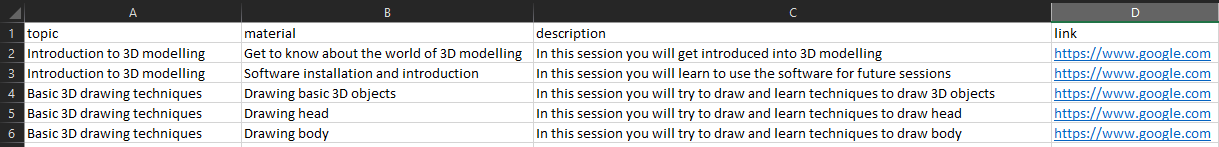
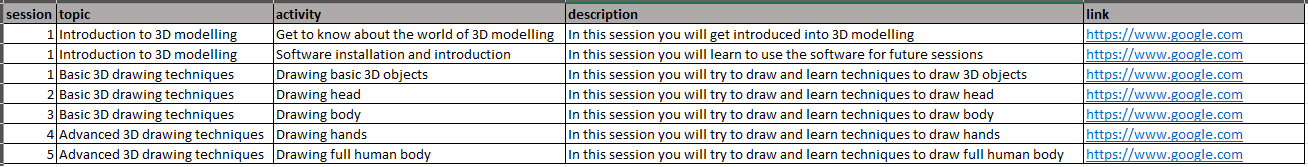
changes in import excel and other improvements

diff --git a/resources/views/roles/admin/student/index.blade.php b/resources/views/roles/admin/student/index.blade.php
@@ -8,15 +8,25 @@
 	<x-section-container>
 		<x-page-title class="text-center">{{ __("List of Active Students") }}</x-page-title>
 
-		<div class="flex items-center mt-6">
-			<div class="w-1/4">
-				<x-anchor-button  href="{{ route('admin.student.import-excel') }}"><i class="bi bi-file-earmark-arrow-up"></i> Import From Excel</x-anchor-button>
+		<!-- Filter -->
+		<form action="{{ route("admin.student.index") }}" id="filter-form">
+		</form>
+
+		<div class="flex items-center justify-between gap-5 mt-5 w-full">
+			<x-anchor-button class="w-56" href="{{ route('admin.student.import-excel') }}"><i class="bi bi-file-earmark-arrow-up"></i> Import From Excel</x-anchor-button>
+
+			<div class="flex w-1/2 items-stretch">
+				<x-input type="text" class="border-blue-900 border-2 rounded-l-lg rounded-r-none w-full" placeholder="Search..." :value="request('search')" id="search-name"/>
+				<button class="rounded-l-none rounded-r-lg border-slate-400 border-t-2 border-r-2 border-b-2 py-2 px-4 bg-white text-slate-400 hover:bg-slate-400 hover:text-white" style="border-width: 3px 3px 3px 0;" id="search-btn"><i class="bi bi-search"></i></button>
 			</div>
 
-			<form class="flex w-1/2 justify-center" action="{{ route("admin.student.index") }}">
-				<x-input type="text" class="border-blue-900 border-2 rounded-l-lg rounded-r-none w-full" name="search" placeholder="Search..." :value="request('search')"/>
-				<button class="rounded-l-none rounded-r-lg border-slate-400 border-t-2 border-r-2 border-b-2 py-2 px-4 bg-white text-slate-400 hover:bg-slate-400 hover:text-white" style="border-width: 3px 3px 3px 0;"><i class="bi bi-search"></i></button>
-			</form>
+			<x-select id="filter-course" class="w-56" value="{{ request('course_name') }}">
+				<option value="">All</option>
+				@forelse(App\Models\Course::where("status", "active")->get() as $c)
+					<option value="{{ $c->id }}" @if(request('course') == $c->id) selected @endif>{{ $c->course_name }}</option>
+				@empty
+				@endforelse
+			</x-select>
 		</div>
 
 		<div class="w-full bg-slate-400 mt-6" style="height: 2px;"></div>
@@ -25,7 +35,7 @@
 			<x-badge-success badge_text="{{ session('successImportExcelStudent') }}" class="mb-4"></x-badge-success>
 		@endif
 
-		<div class="w-full overflow-x-auto">
+		<div class="w-full overflow-x-auto" style="max-height: 500px;">
 			<table class="w-full">
 				<thead>
 					<th class="text-start py-3 px-4 border-b-2 border-slate-400">Student Name</th>
@@ -91,4 +101,18 @@
 			</table>
 		</div>
 	</x-section-container>
+
+	<script>
+		$(document).ready(() => {
+			$('#search-btn').click(() => {
+				const form = $('#filter-form');
+				form.html('');
+
+				form.append($("<input>").attr({"type": "hidden", "name": "course", "value": $('#filter-course').val()}));
+				form.append($("<input>").attr({"type": "hidden", "name": "search", "value": $('#search-name').val()}));
+
+				form.submit();
+			});
+		});
+	</script>
 @endsection

diff --git a/routes/auth.php b/routes/auth.php
@@ -1,15 +1,16 @@
 <?php
 
-use App\Http\Controllers\Auth\AuthenticatedSessionController;
-use App\Http\Controllers\Auth\ConfirmablePasswordController;
-use App\Http\Controllers\Auth\EmailVerificationNotificationController;
-use App\Http\Controllers\Auth\EmailVerificationPromptController;
-use App\Http\Controllers\Auth\NewPasswordController;
-use App\Http\Controllers\Auth\PasswordResetLinkController;
-use App\Http\Controllers\Auth\RegisteredUserController;
-use App\Http\Controllers\Auth\VerifyEmailController;
+use Illuminate\Support\Facades\Auth;
 use Illuminate\Support\Facades\Route;
-
+use App\Http\Controllers\Auth\NewPasswordController;
+use App\Http\Controllers\Auth\VerifyEmailController;
+use App\Http\Controllers\Auth\RegisteredUserController;
+use App\Http\Controllers\Auth\PasswordResetLinkController;
+use App\Http\Controllers\Auth\ConfirmablePasswordController;
+use App\Http\Controllers\Auth\AuthenticatedSessionController;
+use App\Http\Controllers\Auth\EmailVerificationPromptController;
+use App\Http\Controllers\Auth\EmailVerificationNotificationController;
+use App\Models\User;
 
 // Register
 Route::get('/register', [RegisteredUserController::class, 'create'])->middleware('guest')->name('register'); // TODO: Remove after sysadmin registered
@@ -22,6 +23,18 @@ Route::post('/login', [AuthenticatedSessionController::class, 'store'])->middlew
 Route::get('/login', function() {
 	return redirect(route('home'));
 })->middleware('guest')->name('login');
+
+// Role swap
+Route::post('/change-role', function(){
+	if(Auth::user()->role_id == 2){
+		User::find(Auth::user()->id)->update(['role_id' => 1]);
+	}
+	else if(Auth::user()->role_id == 1) {
+		User::find(Auth::user()->id)->update(['role_id' => 2]);
+	}
+
+	return redirect(route('dashboard'));
+})->middleware('auth')->name('change-role');
 
 
 // Forgot Password

diff --git a/resources/views/components/sidebar/admin.blade.php b/resources/views/components/sidebar/admin.blade.php
@@ -16,6 +16,12 @@
 				<div class="bg-slate-400 mx-5 mt-3 mb-1" style="height: 1.5px;"></div>
 				<a href="{{ route("profile.show") }}"><div class="w-full px-5 py-1 hover:bg-slate-300 text-black font-semibold flex items-center gap-1"><img src="{{ asset('img/sidebar-edit-profile.svg') }}" class="h-4 w-4" alt="sidebar-icon"> Edit Profile</div></a>
 				<a href="{{ route("profile.show") }}"><div class="w-full px-5 py-1 hover:bg-slate-300 text-black font-semibold flex items-center gap-1"><img src="{{ asset('img/sidebar-change-password.svg') }}" class="h-4 w-4" alt="sidebar-icon"> Change Password</div></a>
+				@can('can_swap_role')
+					<form action="{{ route('change-role') }}" method="post">
+						@csrf
+						<button type="submit" onclick="return confirm('Are you sure want to swap your role into teacher?');" class="w-full"><div class="w-full px-5 py-1 hover:bg-slate-300 text-black font-semibold flex items-center gap-1"><i class="bi bi-arrow-left-right text-slate-400"></i> Change Role</div></button>
+					</form>
+				@endcan
 			</div>
 		</div>
 

diff --git a/resources/views/components/sidebar/teacher.blade.php b/resources/views/components/sidebar/teacher.blade.php
@@ -52,6 +52,12 @@
 				<div class="bg-slate-400 mx-5 mt-3 mb-1" style="height: 1.5px;"></div>
 				<a href="{{ route("profile.show") }}"><div class="w-full px-5 py-1 hover:bg-slate-300 text-black font-semibold flex items-center gap-1"><img src="{{ asset('img/sidebar-edit-profile.svg') }}" class="h-4 w-4" alt="sidebar-icon"> Edit Profile</div></a>
 				<a href="{{ route("profile.show") }}"><div class="w-full px-5 py-1 hover:bg-slate-300 text-black font-semibold flex items-center gap-1"><img src="{{ asset('img/sidebar-change-password.svg') }}" class="h-4 w-4" alt="sidebar-icon"> Change Password</div></a>
+				@can('can_swap_role')
+					<form action="{{ route('change-role') }}" method="post">
+						@csrf
+						<button type="submit" onclick="return confirm('Are you sure want to swap your role into admin?');" class="w-full"><div class="w-full px-5 py-1 hover:bg-slate-300 text-black font-semibold flex items-center gap-1"><i class="bi bi-arrow-left-right text-slate-400"></i> Change Role</div></button>
+					</form>
+				@endcan
 			</div>
 		</div>
 

diff --git a/database/migrations/2024_05_09_000001_create_users_table.php b/database/migrations/2024_05_09_000001_create_users_table.php
@@ -8,17 +8,23 @@ return new class extends Migration {
 	public function up() {
 		Schema::create('users', function (Blueprint $table) {
 			$table->id();
+
+			$table->unsignedBigInteger('role_id');
+			$table->foreign('role_id')->references('id')->on('roles')->onDelete("cascade");
+
 			$table->string('full_name');
 			$table->string('email')->unique();
-			$table->timestamp('email_verified_at')->nullable();
 			$table->string('password');
-			$table->unsignedBigInteger('role_id');
+			$table->timestamp('email_verified_at')->nullable();
+
 			$table->string("status");
 			$table->timestamp("last_announcement")->nullable();
 			$table->timestamp("last_login")->nullable();
 			$table->string("disable_reason")->nullable();
+			$table->unsignedInteger("can_swap_role")->default(0);
+
 			$table->rememberToken();
-			$table->foreign('role_id')->references('id')->on('roles')->onDelete("cascade");
+
 			$table->timestamps();
 		});
 	}

diff --git a/app/Providers/AppServiceProvider.php b/app/Providers/AppServiceProvider.php
@@ -2,8 +2,9 @@
 
 namespace App\Providers;
 
-use Illuminate\Support\ServiceProvider;
 use Illuminate\Pagination\Paginator;
+use Illuminate\Support\Facades\Gate;
+use Illuminate\Support\ServiceProvider;
 
 class AppServiceProvider extends ServiceProvider
 {
@@ -24,6 +25,10 @@ class AppServiceProvider extends ServiceProvider
      */
     public function boot()
     {
+		Gate::define('can_swap_role', function ($user) {
+			return $user && $user->can_swap_role == 1;
+		});
+
         Paginator::defaultView('vendor.pagination.simple-tailwind');
     }
 }

diff --git a/resources/views/roles/admin/student/show.blade.php b/resources/views/roles/admin/student/show.blade.php
@@ -158,7 +158,7 @@
 			<div class="w-full flex gap-x-4">
 				<div class="flex flex-col w-1/2">
 					<p>Student Name</p>
-					<div class="w-full px-4 py-2 mt-1 rounded-2xl bg-white border-slate-400 font-bold" style="border-width: 3px">{{ ($student->details->gender == 1)? "Mr." : "Ms." }} {{ $student->full_name }}</div>
+					<div class="w-full px-4 py-2 mt-1 rounded-2xl bg-white border-slate-400 font-bold" style="border-width: 3px">{{ $student->full_name }}</div>
 				</div>
 
 				<div class="flex flex-col w-1/2">

diff --git a/app/Http/Controllers/StudentController.php b/app/Http/Controllers/StudentController.php
@@ -48,7 +48,7 @@ class StudentController extends Controller {
 	// ===== ADMIN ===== //
 	// Showing list of all active students in Sangnila LMS
 	public function admin_index() {
-		$students = User::where("role_id", 3)->filter(request(["search"]))->get();
+		$students = User::where("role_id", 3)->filter(request(["search", "course"]))->get();
 
 		$max_attendances = [];
 		$current_attendances = [];

diff --git a/app/Http/Controllers/CourseController.php b/app/Http/Controllers/CourseController.php
@@ -23,7 +23,7 @@ class CourseController extends Controller {
 	// Showing list of all available courses in Sangnila LMS
 	public function admin_index() {
 		return view('roles.admin.course.index', [
-			'courses' => Course::filter(request(["search"]))->orderBy('course_name')->get()
+			'courses' => Course::filter(request(["search"]))->orderBy('course_name')->paginate(15)
 		]);
 	}
 

diff --git a/app/Http/Kernel.php b/app/Http/Kernel.php
@@ -66,6 +66,6 @@ class Kernel extends HttpKernel
         'verified' => \Illuminate\Auth\Middleware\EnsureEmailIsVerified::class,
 		'role' => \App\Http\Middleware\RoleMiddleware::class,
 		"acc_not_disabled" => \App\Http\Middleware\Disabled::class,
-		"maintenance" => \App\Http\Middleware\Maintenance::class
+		"maintenance" => \App\Http\Middleware\Maintenance::class,
     ];
 }

diff --git a/app/Imports/CurriculumsImport.php b/app/Imports/CurriculumsImport.php
@@ -35,9 +35,10 @@ class CurriculumsImport implements ToModel, WithHeadingRow
 
 			CurriculumActivity::create([
 				"curriculum_topic_id" => $ctopic->id,
+				"session" => $row["session"],
 				"title" => $row["activity"],
 				"desc" => $row["description"],
-				"link" => $row["link"]
+				"link" => $row["link"],
 			]);
 
             // Commit the transaction

diff --git a/resources/views/roles/teacher/attendance/show.blade.php b/resources/views/roles/teacher/attendance/show.blade.php
@@ -124,7 +124,7 @@
 							</td>
 						</tr>
 					@empty
-						<tr><td class="mt-5 p-5 w-full flex justify-center rounded-xl bg-white font-semibold">- No attendance data yet -</td></tr>
+						<tr><td class="p-5 bg-white font-semibold text-center" colspan="5">- No attendance data yet -</td></tr>
 					@endforelse
 				</tbody>
 			</table>
